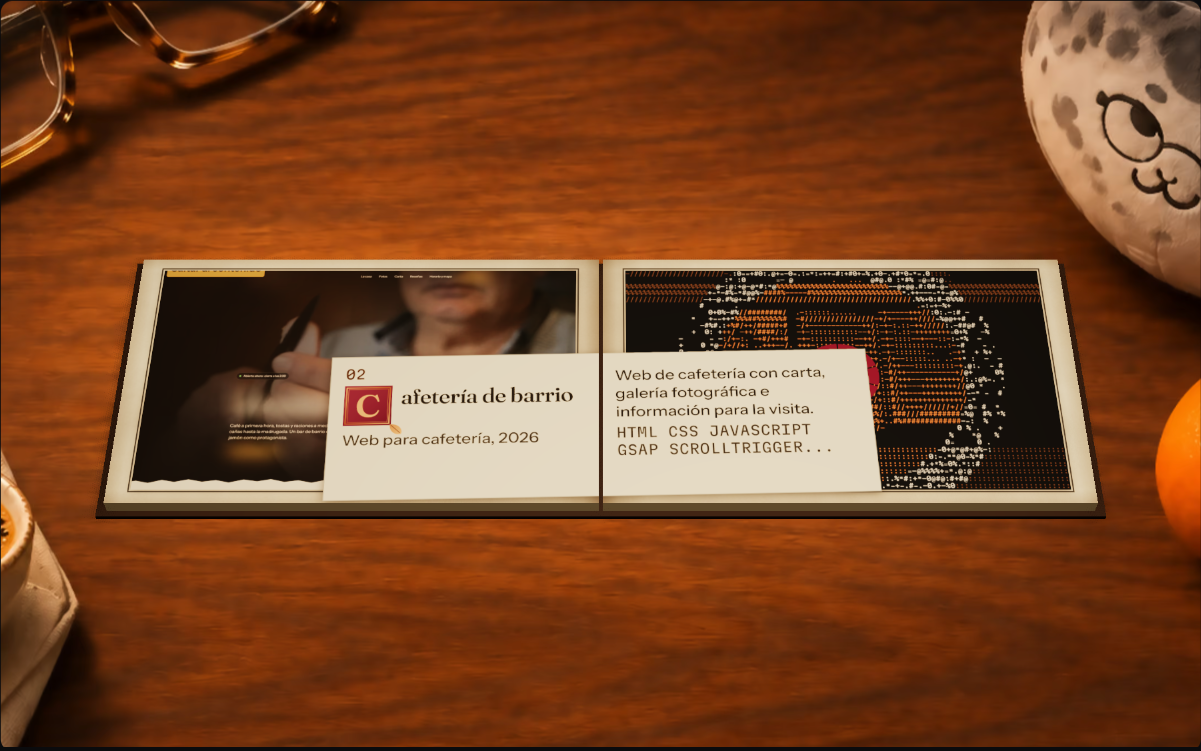
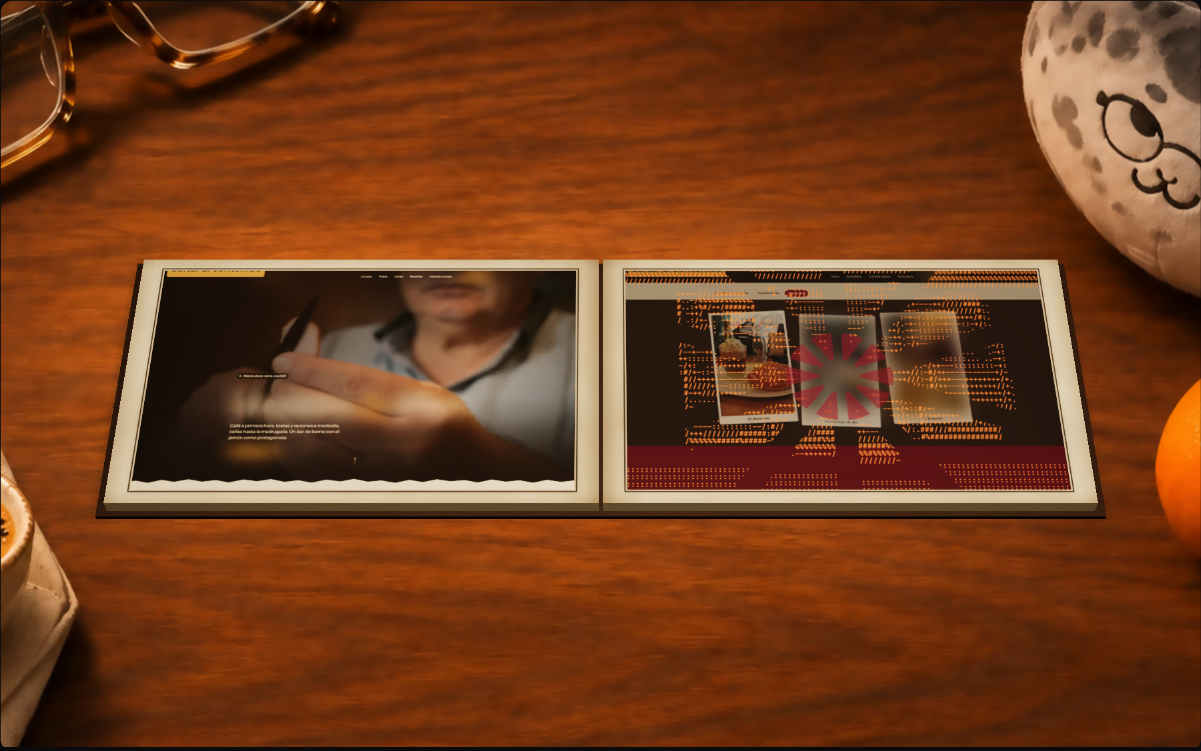
Book stills without the description slip

Changed region(s): [[0.2465, 0.3369, 0.8934, 0.6738]]

diff --git a/proyectos-reales/index.html b/proyectos-reales/index.html
@@ -22,7 +22,7 @@ figcaption{font-size:.9rem;color:#B9B0A6;margin-top:.4rem}
 <body><main>
 <h1>Los tres proyectos reales</h1>
 <p>Transporte y flota, Cafetería de barrio y Pizzería americana ya están en el catálogo, por delante de los ejemplos, sin nombres ni datos de los clientes. Transporte es el proyecto abierto del servicio web; los otros dos están sellados hasta el código y, tras él, muestran sus clips. <a href="../">Volver</a>.</p>
-<h2>El libro, 1440 × 900</h2><div class="grid"><figure><a href="book-transporte-flota-1440x900.png"><img src="book-transporte-flota-1440x900.png" alt="Transporte y flota: la web de ejemplo del servicio web, abierta." width="1201" height="751" loading="lazy"></a><figcaption>Transporte y flota: la web de ejemplo del servicio web, abierta.</figcaption></figure>
+<h2>El libro, 1440 × 900</h2><p>Actualizado el 15 de noviembre: los pliegos abiertos ya no llevan la ficha de texto encima; solo las dos pantallas. La ficha sigue en el índice, la lista, el teléfono y la página de cada proyecto.</p><div class="grid"><figure><a href="book-transporte-flota-1440x900.png"><img src="book-transporte-flota-1440x900.png" alt="Transporte y flota: la web de ejemplo del servicio web, abierta." width="1201" height="751" loading="lazy"></a><figcaption>Transporte y flota: la web de ejemplo del servicio web, abierta.</figcaption></figure>
 <figure><a href="book-cafeteria-barrio-1440x900.png"><img src="book-cafeteria-barrio-1440x900.png" alt="Cafetería de barrio: sellado hasta el código; aquí ya abierto (a la derecha, el descifrado en curso)." width="1201" height="751" loading="lazy"></a><figcaption>Cafetería de barrio: sellado hasta el código; aquí ya abierto (a la derecha, el descifrado en curso).</figcaption></figure>
 <figure><a href="book-pizzeria-americana-1440x900.png"><img src="book-pizzeria-americana-1440x900.png" alt="Pizzería americana: igual, abierta tras el código." width="1201" height="751" loading="lazy"></a><figcaption>Pizzería americana: igual, abierta tras el código.</figcaption></figure></div>
 <h2>La lista</h2><div class="grid"><figure><a href="list-1440x900.png"><img src="list-1440x900.png" alt="El índice con Transporte seleccionado." width="1440" height="900" loading="lazy"></a><figcaption>El índice con Transporte seleccionado.</figcaption></figure></div>
